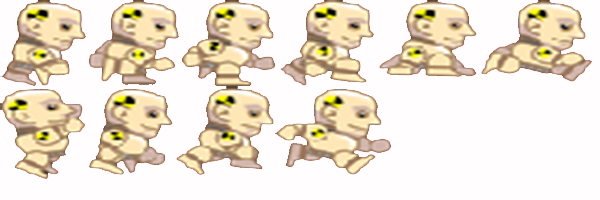
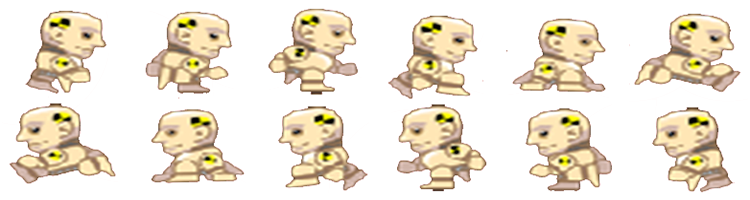
Add files via upload

diff --git a/cat.py b/cat.py
@@ -21,7 +21,7 @@ class Cat:
 
     image=None
 
-    LEFT_RUN, RIGHT_RUN, LEFT_STAND, RIGHT_STAND,JUMP= 1, 1, 1, 1,1
+    LEFT_RUN, RIGHT_RUN, LEFT_STAND, RIGHT_STAND,LEFT_JUMP,RIGHT_JUMP= 0, 1, 0, 1,2,3
 
     def __init__(self):
         self.x, self.y = 100, 500
@@ -33,7 +33,7 @@ class Cat:
         self.total_frame=0
         self.dir = 0
         self.up = 0
-        self.a=0
+        self.jumpstate=0
         self.updir=0
         self.ystate=0
         self.xstate=0
@@ -41,7 +41,7 @@ class Cat:
         self.index=0
         self.pistolfire=0
         if Cat.image == None:
-            Cat.image = load_image('run_animation2.png')
+            Cat.image = load_image('cat_animation.png')
 
     def set_map1(self, bg):
         self.bg = bg
@@ -68,11 +68,9 @@ class Cat:
         self.x = clamp(0, self.x, self.bg.w)
         self.y = clamp(-120,self.y,self.bg.h)
 
-        self.a = self.total_frame
+        self.jumpstate = self.total_frame
 
-
-
-        if self.a%8>7:
+        if self.jumpstate%8>7:
             self.up, self.updir=-2,1
 
 
@@ -165,7 +163,7 @@ class Cat:
             self.start()
 
     def start(self):
-        Cat.image = load_image("run_animation2.png")
+        Cat.image = load_image("cat_animation.png")
         self.x = 100
         self.y = 700
         self.up =-2
@@ -180,7 +178,7 @@ class Cat:
 
     def handle_event(self, event):
         if (event.type, event.key) == (SDL_KEYDOWN, SDLK_LEFT):
-            if self.state in (self.RIGHT_STAND, self.LEFT_STAND, self.RIGHT_RUN,self.JUMP):
+            if self.state in (self.RIGHT_STAND, self.LEFT_STAND, self.RIGHT_RUN,self.RIGHT_JUMP,self.LEFT_JUMP):
                 self.ystate = 0
                 self.state = self.LEFT_RUN
                 self.dir = -1
@@ -188,29 +186,35 @@ class Cat:
                 normal_stage.a=0
         elif (event.type, event.key) == (SDL_KEYDOWN, SDLK_RIGHT):
             self.ystate = 0
-            if self.state in (self.RIGHT_STAND, self.LEFT_STAND, self.LEFT_RUN,self.JUMP):
+            if self.state in (self.RIGHT_STAND, self.LEFT_STAND, self.LEFT_RUN,self.LEFT_JUMP,self.RIGHT_JUMP):
                 self.state = self.RIGHT_RUN
                 self.dir = 1
                 self.index =1
                 normal_stage.a=0
         elif (event.type, event.key) == (SDL_KEYUP, SDLK_LEFT):
             self.ystate = 0
-            if self.state in (self.LEFT_RUN,self.JUMP):
+            if self.state in (self.LEFT_RUN,self.LEFT_JUMP):
                 self.state = self.LEFT_STAND
                 self.dir = 0
                 normal_stage.a=0
         elif (event.type, event.key) == (SDL_KEYUP, SDLK_RIGHT):
             self.ystate=0
-            if self.state in (self.RIGHT_RUN,self.JUMP):
+            if self.state in (self.RIGHT_RUN,self.RIGHT_JUMP):
                 self.state = self.RIGHT_STAND
                 self.dir = 0
                 normal_stage.a=0
         elif (event.type, event.key)==(SDL_KEYDOWN,SDLK_UP):
             self.ystate = 0
-            if self.state in(self.RIGHT_STAND,self.RIGHT_RUN,self.LEFT_STAND, self.LEFT_RUN):
-                self.state = self.JUMP
+            if self.state in(self.LEFT_STAND, self.LEFT_RUN):
+                self.state = self.LEFT_JUMP
                 self.up = 2
                 self.total_frame=0
+            elif self.state in (self.RIGHT_STAND, self.RIGHT_RUN):
+                self.state = self.RIGHT_JUMP
+                self.up = 2
+                self.total_frame = 0
+
+
         elif (event.type, event.key)==(SDL_KEYDOWN,SDLK_a):
             self.pistolfire=1
 

diff --git a/pistol_fire.py b/pistol_fire.py
@@ -46,13 +46,21 @@ class Pistol_Fire:
         self.x += (self.dir * distance)
         self.y = self.cat.y
         if self.cat.pistolfire !=1:
-            self.x =self.cat.x+50
+            self.x =self.cat.x+30
 
         if self.cat.pistolfire == 1:
-            self.dir=4
+            if self.cat.dir==1 or self.cat.dir==0:
+                self.dir=4
+            elif self.cat.dir==-1 or self.cat.dir==0:
+                self.dir=-4
 
         if self.x>800:
-            self.x=self.cat.x
+            if  self.cat.pistolfire==0:
+                self.x=self.cat.x
+        if self.x<0:
+            if self.cat.pistolfire==0:
+                self.x=self.cat.x
+
 
         pass
 
